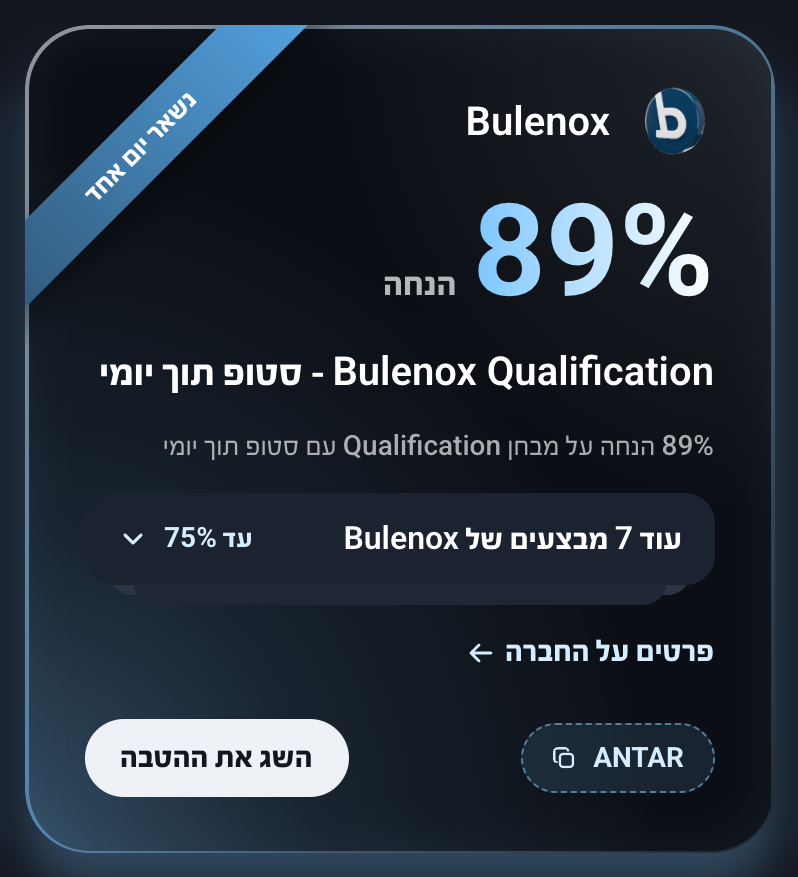
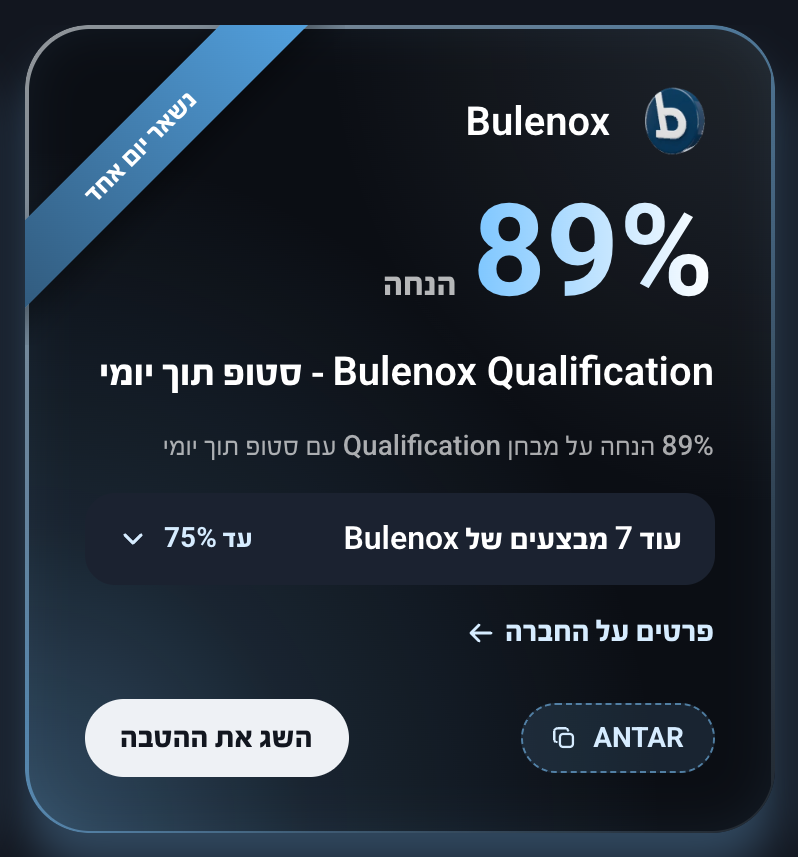
AntarTrade deals simulation: without the peeking card edges

diff --git a/antartrade/deals-fan/index.html b/antartrade/deals-fan/index.html
@@ -1,10 +1,10 @@
 <!doctype html><html lang="he" dir="rtl"><head><meta charset="utf-8"><meta name="viewport" content="width=device-width,initial-scale=1"><title>Deals Card Before After</title><meta name="robots" content="noindex">
 <style>body{margin:0;background:#e9eef4;font:500 17px/1.45 system-ui,sans-serif;color:#12161f}main{max-width:1240px;margin:0 auto;padding:28px 16px 60px;display:grid;gap:36px}h1{margin:0;font-size:26px}h2{margin:0 0 12px;font-size:20px}.row{display:flex;gap:20px;flex-wrap:wrap;align-items:flex-start}.c{display:grid;gap:8px;flex:1 1 260px;max-width:390px}.c b{font-size:17px}.c span{font-weight:400;color:#5b6676;font-size:15px}img{width:100%;border-radius:18px;box-shadow:0 14px 34px rgba(18,22,31,.14);display:block}p{margin:0;color:#5b6676;font-weight:400}</style></head><body><main>
 <h1>כרטיס המבצעים של Bulenox: לפני ואחרי</h1>
-<p>אחרי: שורה בולטת "עוד 7 מבצעים של Bulenox, עד 75%", ומתחתיה שני קצוות של כרטיסים שמציצים, כדי שיהיה ברור שיש עוד. לחיצה פותחת את המבצעים ככרטיסים קטנים שיוצאים אחד אחרי השני, ולחיצה על כרטיס מעבירה אותו לכרטיס הראשי.</p>
+<p>אחרי: שורה בולטת "עוד 7 מבצעים של Bulenox, עד 75%", כדי שיהיה ברור שיש עוד. לחיצה פותחת את המבצעים ככרטיסים קטנים שיוצאים אחד אחרי השני, ולחיצה על כרטיס מעבירה אותו לכרטיס הראשי.</p>
 <section><h2>טלפון</h2><div class="row">
 <div class="c"><b>לפני</b><span>"עוד מבצעים של Bulenox" באפור קטן, שתי שורות ו"הצג עוד 5"</span><img src="before-p.png" alt=""></div>
-<div class="c"><b>אחרי, סגור</b><span>שורה אחת בולטת, עם כרטיסים שמציצים מתחתיה</span><img src="after-p.png" alt=""></div>
+<div class="c"><b>אחרי, סגור</b><span>שורה אחת בולטת עם מספר המבצעים</span><img src="after-p.png" alt=""></div>
 <div class="c"><b>אחרי, אחרי לחיצה</b><span>כל המבצעים ככרטיסים קטנים, שניים בשורה</span><img src="open-p.png" alt=""></div>
 </div></section>
 <section><h2>מחשב</h2><div class="row">
